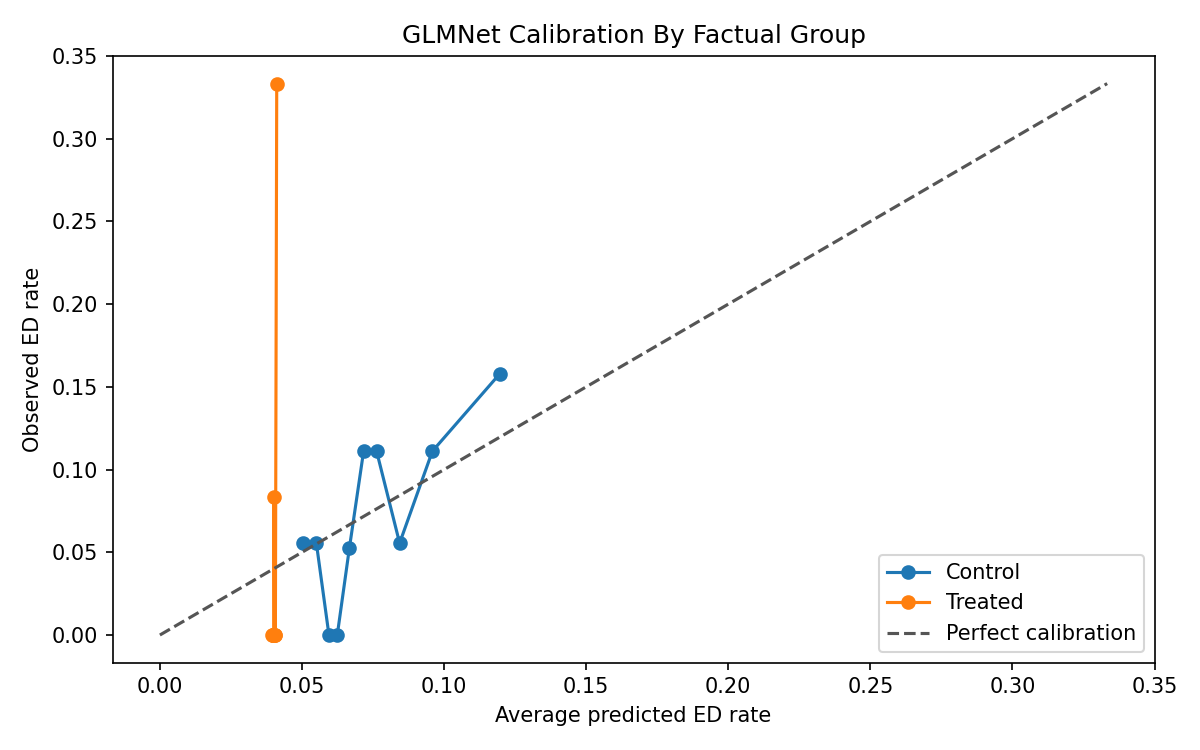
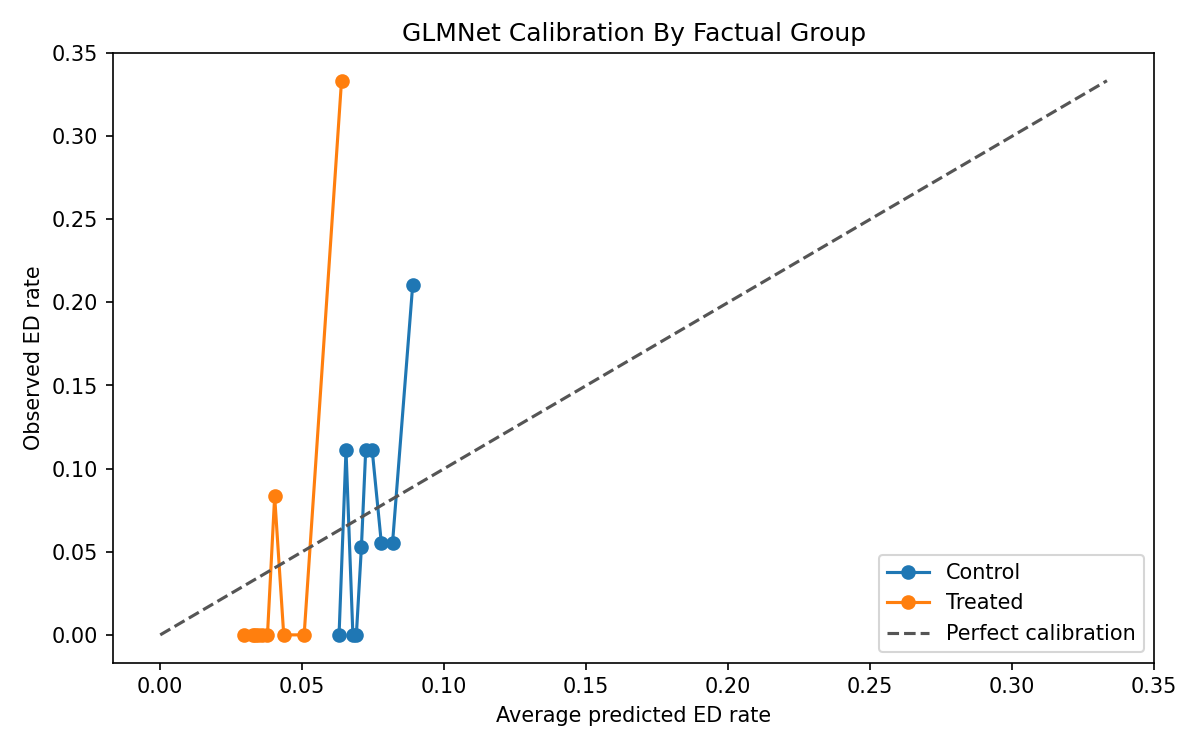
Refresh uplift report outputs

diff --git a/PRISM_Intervention_Benefit_Modeling_README.md b/PRISM_Intervention_Benefit_Modeling_README.md
@@ -182,7 +182,7 @@ Discrimination asks whether the model ranks actual ED-positive members above act
 | Model | Treated CV AUC | Control CV AUC | Treated test AUC | Control test AUC |
 | ---: | ---: | ---: | ---: | ---: |
 | XGBoost | 0.7399 | 0.6680 | 0.8354 | 0.5833 |
-| GLMNet | 0.7138 | 0.6500 | 0.9062 | 0.6582 |
+| GLMNet | 0.7195 | 0.6472 | 0.9044 | 0.6600 |
 <!-- AUTO_TABLE:model_performance_summary END -->
 
 GLMNet has the stronger held-out discrimination in this run. Its treated test AUC is meaningfully better than XGBoost's treated test AUC, and its control test AUC is also higher. XGBoost now ranks treated members well, but its control test AUC is weaker than GLMNet's control test AUC. Because both treated and control outcome models feed into the benefit score, GLMNet remains the stronger candidate for outcome-risk ranking.
@@ -196,8 +196,8 @@ AUC is useful, but it can feel abstract. The table below combines factual-group 
 | ---: | ---: | ---: | ---: | ---: | ---: | ---: | ---: | ---: | ---: |
 | XGBoost | Treated | 5 | 113 | 0.8354 | 0.1289 | 0.1165 | 0.0124 | 0.1286 | 0.1110 |
 | XGBoost | Control | 13 | 169 | 0.5833 | 0.1184 | 0.1134 | 0.0050 | 0.1119 | 0.1055 |
-| GLMNet | Treated | 5 | 113 | 0.9062 | 0.0409 | 0.0401 | 0.0008 | 0.0410 | 0.0400 |
-| GLMNet | Control | 13 | 169 | 0.6582 | 0.0864 | 0.0734 | 0.0130 | 0.0758 | 0.0689 |
+| GLMNet | Treated | 5 | 113 | 0.9044 | 0.0574 | 0.0395 | 0.0179 | 0.0606 | 0.0363 |
+| GLMNet | Control | 13 | 169 | 0.6600 | 0.0774 | 0.0729 | 0.0045 | 0.0742 | 0.0713 |
 <!-- AUTO_TABLE:factual_prediction_separation END -->
 
 This table is one of the most important diagnostics for the project. The AUC column measures whether the model ranks actual ED-positive members above ED-negative members. The average and median prediction columns show whether ED-positive members receive higher predicted probabilities in magnitude. A useful risk model should show both stronger ranking and higher predicted risk among actual ED-positive members.
@@ -220,7 +220,7 @@ Calibration error = sum((n_bin / n_total) * abs(observed_ED_rate_bin - average_p
 | Model | Treated Brier | Control Brier | Treated calibration error | Control calibration error |
 | ---: | ---: | ---: | ---: | ---: |
 | XGBoost | 0.0452 | 0.0681 | 0.0803 | 0.0644 |
-| GLMNet | 0.0405 | 0.0651 | 0.0660 | 0.0298 |
+| GLMNet | 0.0392 | 0.0658 | 0.0615 | 0.0511 |
 <!-- AUTO_TABLE:brier_calibration_summary END -->
 
 GLMNet has lower Brier scores and lower calibration error than XGBoost in both the treated and control groups. This supports GLMNet as the stronger probability model. However, Brier score should be interpreted carefully because the ED outcome is rare. A model can receive a low Brier score by predicting low probabilities for most members. For that reason, Brier and calibration should be interpreted alongside factual AUC, positive-vs-negative prediction separation, and prediction range.
@@ -240,8 +240,8 @@ The prediction ranges below are **factual evaluation ranges**. For treated membe
 | ---: | ---: | ---: | ---: | ---: | ---: | ---: | ---: |
 | XGBoost | Treated | 0.1096 | 0.1096 | 0.1121 | 0.1170 | 0.1288 | 0.1525 |
 | XGBoost | Control | 0.0814 | 0.0895 | 0.1057 | 0.1138 | 0.1557 | 0.1854 |
-| GLMNet | Treated | 0.0394 | 0.0397 | 0.0400 | 0.0401 | 0.0408 | 0.0417 |
-| GLMNet | Control | 0.0453 | 0.0525 | 0.0698 | 0.0744 | 0.1023 | 0.2067 |
+| GLMNet | Treated | 0.0274 | 0.0318 | 0.0372 | 0.0403 | 0.0545 | 0.0858 |
+| GLMNet | Control | 0.0601 | 0.0644 | 0.0716 | 0.0732 | 0.0844 | 0.1084 |
 <!-- AUTO_TABLE:factual_prediction_ranges END -->
 
 This table helps explain probability magnitude in a rare-outcome setting. GLMNet's treated predictions are tightly compressed around 4.0%, so even small rank-order differences can produce a strong AUC while still producing very little probability spread. The GLMNet control model has a wider factual prediction range, which gives it more room to separate higher-risk and lower-risk members by probability magnitude.
@@ -280,8 +280,8 @@ Current high-benefit examples from the GLMNet T-learner scored output:
 <!-- AUTO_TABLE:top_benefit_examples START -->
 | Model | Example | Actual outcome | Treatment flag | Predicted ED if treated | Predicted ED if control | Benefit score | Uplift decile |
 | ---: | ---: | ---: | ---: | ---: | ---: | ---: | ---: |
-| GLMNet | Highest benefit | 1 | 0 | 0.0438 | 0.4700 | 0.4263 | 1 |
-| GLMNet | Second highest benefit | 1 | 1 | 0.0443 | 0.4021 | 0.3579 | 1 |
+| GLMNet | Highest benefit | 0 | 1 | 0.0301 | 0.0839 | 0.0538 | 1 |
+| GLMNet | Second highest benefit | 0 | 0 | 0.0355 | 0.0871 | 0.0516 | 1 |
 <!-- AUTO_TABLE:top_benefit_examples END -->
 
 In the highest GLMNet example, the predicted untreated ED probability is 0.4700 and the predicted treated ED probability is 0.0438, giving a predicted benefit of 0.4263. This means the model estimates a 42.63 percentage point reduction in ED probability under treatment for that member.
@@ -316,10 +316,10 @@ Because GLMNet is the stronger candidate model based on held-out AUC, Brier scor
 <!-- AUTO_TABLE:glmnet_t_vs_x_decile_summary START -->
 <table><tr>
 <td valign="top" width="50%"><strong>GLMNet T-learner deciles</strong>
-<table><thead><tr><th>Uplift decile</th><th>N</th><th>Avg T-learner benefit score</th><th>Observed ED rate</th><th>Avg predicted ED if treated</th><th>Avg predicted ED if control</th><th>Treatment pct</th></tr></thead><tbody><tr><td>1</td><td>30</td><td>0.0827</td><td>0.2333</td><td>0.0409</td><td>0.1236</td><td>0.5000</td></tr><tr><td>2</td><td>30</td><td>0.0576</td><td>0.1000</td><td>0.0406</td><td>0.0982</td><td>0.3667</td></tr><tr><td>3</td><td>30</td><td>0.0461</td><td>0.0333</td><td>0.0402</td><td>0.0863</td><td>0.5000</td></tr><tr><td>4</td><td>30</td><td>0.0382</td><td>0.0667</td><td>0.0401</td><td>0.0784</td><td>0.4000</td></tr><tr><td>5</td><td>30</td><td>0.0322</td><td>0.0667</td><td>0.0400</td><td>0.0722</td><td>0.2667</td></tr><tr><td>6</td><td>30</td><td>0.0281</td><td>0.0333</td><td>0.0400</td><td>0.0681</td><td>0.5333</td></tr><tr><td>7</td><td>30</td><td>0.0240</td><td>0.0000</td><td>0.0399</td><td>0.0639</td><td>0.4000</td></tr><tr><td>8</td><td>30</td><td>0.0205</td><td>0.0000</td><td>0.0398</td><td>0.0603</td><td>0.3000</td></tr><tr><td>9</td><td>30</td><td>0.0166</td><td>0.0000</td><td>0.0397</td><td>0.0563</td><td>0.4333</td></tr><tr><td>10</td><td>30</td><td>0.0116</td><td>0.0667</td><td>0.0396</td><td>0.0512</td><td>0.2333</td></tr></tbody></table>
+<table><thead><tr><th>Uplift decile</th><th>N</th><th>Avg T-learner benefit score</th><th>Observed ED rate</th><th>Avg predicted ED if treated</th><th>Avg predicted ED if control</th><th>Treatment pct</th></tr></thead><tbody><tr><td>1</td><td>30</td><td>0.0440</td><td>0.0667</td><td>0.0357</td><td>0.0797</td><td>0.3667</td></tr><tr><td>2</td><td>30</td><td>0.0403</td><td>0.0000</td><td>0.0345</td><td>0.0748</td><td>0.4333</td></tr><tr><td>3</td><td>30</td><td>0.0382</td><td>0.0000</td><td>0.0336</td><td>0.0717</td><td>0.3667</td></tr><tr><td>4</td><td>30</td><td>0.0365</td><td>0.0333</td><td>0.0333</td><td>0.0698</td><td>0.3667</td></tr><tr><td>5</td><td>30</td><td>0.0354</td><td>0.0667</td><td>0.0367</td><td>0.0721</td><td>0.4000</td></tr><tr><td>6</td><td>30</td><td>0.0342</td><td>0.0333</td><td>0.0376</td><td>0.0719</td><td>0.3333</td></tr><tr><td>7</td><td>30</td><td>0.0329</td><td>0.0667</td><td>0.0378</td><td>0.0707</td><td>0.5667</td></tr><tr><td>8</td><td>30</td><td>0.0312</td><td>0.1333</td><td>0.0411</td><td>0.0723</td><td>0.4000</td></tr><tr><td>9</td><td>30</td><td>0.0287</td><td>0.0000</td><td>0.0442</td><td>0.0729</td><td>0.3333</td></tr><tr><td>10</td><td>30</td><td>0.0230</td><td>0.2000</td><td>0.0584</td><td>0.0815</td><td>0.3667</td></tr></tbody></table>
 </td>
 <td valign="top" width="50%"><strong>GLMNet X-learner deciles</strong>
-<table><thead><tr><th>Uplift decile</th><th>N</th><th>Avg X-learner benefit score</th><th>Observed ED rate</th><th>Avg outcome-model ED if treated</th><th>Avg outcome-model ED if control</th><th>Treatment pct</th></tr></thead><tbody><tr><td>1</td><td>30</td><td>0.0838</td><td>0.2000</td><td>0.0410</td><td>0.1181</td><td>0.5333</td></tr><tr><td>2</td><td>30</td><td>0.0552</td><td>0.0667</td><td>0.0404</td><td>0.0951</td><td>0.3667</td></tr><tr><td>3</td><td>30</td><td>0.0460</td><td>0.0333</td><td>0.0400</td><td>0.0763</td><td>0.2667</td></tr><tr><td>4</td><td>30</td><td>0.0410</td><td>0.0667</td><td>0.0401</td><td>0.0772</td><td>0.3000</td></tr><tr><td>5</td><td>30</td><td>0.0382</td><td>0.0667</td><td>0.0399</td><td>0.0691</td><td>0.2333</td></tr><tr><td>6</td><td>30</td><td>0.0352</td><td>0.0333</td><td>0.0399</td><td>0.0692</td><td>0.5333</td></tr><tr><td>7</td><td>30</td><td>0.0314</td><td>0.0000</td><td>0.0398</td><td>0.0646</td><td>0.4667</td></tr><tr><td>8</td><td>30</td><td>0.0278</td><td>0.1000</td><td>0.0399</td><td>0.0646</td><td>0.5000</td></tr><tr><td>9</td><td>30</td><td>0.0239</td><td>0.0333</td><td>0.0398</td><td>0.0640</td><td>0.3333</td></tr><tr><td>10</td><td>30</td><td>0.0137</td><td>0.0000</td><td>0.0399</td><td>0.0601</td><td>0.4000</td></tr></tbody></table>
+<table><thead><tr><th>Uplift decile</th><th>N</th><th>Avg X-learner benefit score</th><th>Observed ED rate</th><th>Avg outcome-model ED if treated</th><th>Avg outcome-model ED if control</th><th>Treatment pct</th></tr></thead><tbody><tr><td>1</td><td>30</td><td>0.0696</td><td>0.2000</td><td>0.0565</td><td>0.0869</td><td>0.5667</td></tr><tr><td>2</td><td>30</td><td>0.0502</td><td>0.0333</td><td>0.0419</td><td>0.0785</td><td>0.3000</td></tr><tr><td>3</td><td>30</td><td>0.0447</td><td>0.0667</td><td>0.0371</td><td>0.0733</td><td>0.3000</td></tr><tr><td>4</td><td>30</td><td>0.0411</td><td>0.0000</td><td>0.0354</td><td>0.0717</td><td>0.2333</td></tr><tr><td>5</td><td>30</td><td>0.0374</td><td>0.0333</td><td>0.0362</td><td>0.0726</td><td>0.4000</td></tr><tr><td>6</td><td>30</td><td>0.0348</td><td>0.0667</td><td>0.0353</td><td>0.0713</td><td>0.4667</td></tr><tr><td>7</td><td>30</td><td>0.0321</td><td>0.0667</td><td>0.0383</td><td>0.0718</td><td>0.5000</td></tr><tr><td>8</td><td>30</td><td>0.0285</td><td>0.0333</td><td>0.0364</td><td>0.0703</td><td>0.2667</td></tr><tr><td>9</td><td>30</td><td>0.0239</td><td>0.1000</td><td>0.0393</td><td>0.0723</td><td>0.4667</td></tr><tr><td>10</td><td>30</td><td>0.0150</td><td>0.0000</td><td>0.0366</td><td>0.0688</td><td>0.4333</td></tr></tbody></table>
 </td>
 </tr></table>
 
@@ -337,7 +337,7 @@ The consistency summary below is limited to GLMNet because GLMNet is the model c
 <!-- AUTO_TABLE:glmnet_xlearner_consistency_summary START -->
 | Model | Pearson benefit score corr | Spearman benefit score corr | Top decile overlap | T-learner mean benefit score | X-learner mean benefit score |
 | ---: | ---: | ---: | ---: | ---: | ---: |
-| GLMNet | 0.8062 | 0.6778 | 60.0% | 0.0358 | 0.0396 |
+| GLMNet | -0.0761 | 0.1608 | 16.7% | 0.0344 | 0.0377 |
 <!-- AUTO_TABLE:glmnet_xlearner_consistency_summary END -->
 
 Supporting files:
@@ -376,10 +376,10 @@ The current top benefit drivers by magnitude are:
 <!-- AUTO_TABLE:glmnet_benefit_magnitude START -->
 <table><tr>
 <td valign="top" width="50%"><strong>GLMNet T-learner</strong>
-<table><thead><tr><th>Feature</th><th>Mean absolute contribution</th></tr></thead><tbody><tr><td>`admits_last_6m`</td><td>0.0868</td></tr><tr><td>`ed_visits_last_6m`</td><td>0.0764</td></tr><tr><td>`percolator_clinical_score`</td><td>0.0750</td></tr><tr><td>`chf_flag`</td><td>0.0513</td></tr><tr><td>`current_risk_score`</td><td>0.0496</td></tr></tbody></table>
+<table><thead><tr><th>Feature</th><th>Mean absolute contribution</th></tr></thead><tbody><tr><td>`percolator_utilization_score`</td><td>0.0369</td></tr><tr><td>`total_cost_last_6m`</td><td>0.0349</td></tr><tr><td>`percolator_clinical_score`</td><td>0.0259</td></tr><tr><td>`behavioral_health_risk_flag`</td><td>0.0250</td></tr><tr><td>`food_insecurity_flag`</td><td>0.0226</td></tr></tbody></table>
 </td>
 <td valign="top" width="50%"><strong>GLMNet X-learner</strong>
-<table><thead><tr><th>Feature</th><th>Mean absolute contribution</th></tr></thead><tbody><tr><td>`admits_last_6m`</td><td>0.0028</td></tr><tr><td>`ed_visits_last_6m`</td><td>0.0026</td></tr><tr><td>`chf_flag`</td><td>0.0020</td></tr><tr><td>`anxiety_flag`</td><td>0.0019</td></tr><tr><td>`percolator_clinical_score`</td><td>0.0019</td></tr></tbody></table>
+<table><thead><tr><th>Feature</th><th>Mean absolute contribution</th></tr></thead><tbody><tr><td>`anxiety_flag`</td><td>0.0022</td></tr><tr><td>`program_Complex_CM`</td><td>0.0018</td></tr><tr><td>`percolator_clinical_score`</td><td>0.0016</td></tr><tr><td>`pcp_visits_last_6m`</td><td>0.0016</td></tr><tr><td>`admits_last_6m`</td><td>0.0016</td></tr></tbody></table>
 </td>
 </tr></table>
 <!-- AUTO_TABLE:glmnet_benefit_magnitude END -->
@@ -389,16 +389,16 @@ The current top benefit drivers by signed value are:
 <!-- AUTO_TABLE:glmnet_benefit_signed START -->
 <table><tr>
 <td valign="top" width="50%"><strong>GLMNet T-learner</strong>
-<table><thead><tr><th>Direction</th><th>Feature</th><th>Mean signed contribution</th></tr></thead><tbody><tr><td>Increase predicted benefit</td><td>`ed_visits_last_6m`</td><td>0.0156</td></tr><tr><td>Increase predicted benefit</td><td>`admits_last_6m`</td><td>0.0128</td></tr><tr><td>Increase predicted benefit</td><td>`current_risk_score`</td><td>0.0075</td></tr><tr><td>Increase predicted benefit</td><td>`percolator_clinical_score`</td><td>0.0048</td></tr><tr><td>Increase predicted benefit</td><td>`chf_flag`</td><td>0.0045</td></tr><tr><td>Decrease predicted benefit</td><td>`risk_tier_Very_High`</td><td>-0.0020</td></tr><tr><td>Decrease predicted benefit</td><td>`service_region_Central`</td><td>-0.0002</td></tr><tr><td>Decrease predicted benefit</td><td>`risk_tier_Medium`</td><td>-0.0001</td></tr><tr><td>Decrease predicted benefit</td><td>`service_region_West`</td><td>-0.0001</td></tr><tr><td>Decrease predicted benefit</td><td>`case_manager_name_CM_15`</td><td>-0.0001</td></tr></tbody></table>
+<table><thead><tr><th>Direction</th><th>Feature</th><th>Mean signed contribution</th></tr></thead><tbody><tr><td>Increase predicted benefit</td><td>`client_contract_Contract_B`</td><td>0.0022</td></tr><tr><td>Increase predicted benefit</td><td>`risk_tier_Very_High`</td><td>0.0017</td></tr><tr><td>Increase predicted benefit</td><td>`ckd_flag`</td><td>0.0016</td></tr><tr><td>Increase predicted benefit</td><td>`behavioral_health_risk_flag`</td><td>0.0015</td></tr><tr><td>Increase predicted benefit</td><td>`anxiety_flag`</td><td>0.0013</td></tr><tr><td>Decrease predicted benefit</td><td>`total_cost_last_6m`</td><td>-0.0042</td></tr><tr><td>Decrease predicted benefit</td><td>`service_region_Central`</td><td>-0.0029</td></tr><tr><td>Decrease predicted benefit</td><td>`risk_tier_High`</td><td>-0.0028</td></tr><tr><td>Decrease predicted benefit</td><td>`percolator_utilization_score`</td><td>-0.0020</td></tr><tr><td>Decrease predicted benefit</td><td>`service_region_West`</td><td>-0.0020</td></tr></tbody></table>
 </td>
 <td valign="top" width="50%"><strong>GLMNet X-learner</strong>
-<table><thead><tr><th>Direction</th><th>Feature</th><th>Mean signed contribution</th></tr></thead><tbody><tr><td>Increase predicted benefit</td><td>`ed_visits_last_6m`</td><td>0.0009</td></tr><tr><td>Increase predicted benefit</td><td>`admits_last_6m`</td><td>0.0007</td></tr><tr><td>Increase predicted benefit</td><td>`current_risk_score`</td><td>0.0006</td></tr><tr><td>Increase predicted benefit</td><td>`risk_tier_High`</td><td>0.0004</td></tr><tr><td>Increase predicted benefit</td><td>`total_cost_last_6m`</td><td>0.0004</td></tr><tr><td>Decrease predicted benefit</td><td>`opioid_flag`</td><td>-0.0004</td></tr><tr><td>Decrease predicted benefit</td><td>`pcp_visits_last_6m`</td><td>-0.0004</td></tr><tr><td>Decrease predicted benefit</td><td>`transportation_barrier_flag`</td><td>-0.0003</td></tr><tr><td>Decrease predicted benefit</td><td>`specialist_visits_last_6m`</td><td>-0.0002</td></tr><tr><td>Decrease predicted benefit</td><td>`county_County_A`</td><td>-0.0002</td></tr></tbody></table>
+<table><thead><tr><th>Direction</th><th>Feature</th><th>Mean signed contribution</th></tr></thead><tbody><tr><td>Increase predicted benefit</td><td>`ed_visits_last_6m`</td><td>0.0005</td></tr><tr><td>Increase predicted benefit</td><td>`current_risk_score`</td><td>0.0004</td></tr><tr><td>Increase predicted benefit</td><td>`admits_last_6m`</td><td>0.0003</td></tr><tr><td>Increase predicted benefit</td><td>`risk_tier_High`</td><td>0.0003</td></tr><tr><td>Increase predicted benefit</td><td>`percolator_utilization_score`</td><td>0.0002</td></tr><tr><td>Decrease predicted benefit</td><td>`pcp_visits_last_6m`</td><td>-0.0004</td></tr><tr><td>Decrease predicted benefit</td><td>`opioid_flag`</td><td>-0.0003</td></tr><tr><td>Decrease predicted benefit</td><td>`transportation_barrier_flag`</td><td>-0.0002</td></tr><tr><td>Decrease predicted benefit</td><td>`case_manager_name_CM_11`</td><td>-0.0002</td></tr><tr><td>Decrease predicted benefit</td><td>`service_region_Central`</td><td>-0.0001</td></tr></tbody></table>
 </td>
 </tr></table>
 <!-- AUTO_TABLE:glmnet_benefit_signed END -->
 
 <!-- AUTO_TEXT:glmnet_benefit_driver_interpretation START -->
-For GLMNet, `admits_last_6m`, `ed_visits_last_6m`, `percolator_clinical_score`, `chf_flag`, `current_risk_score` are the largest benefit-driver features by absolute contribution-difference magnitude. By signed value, `ed_visits_last_6m`, `admits_last_6m`, `current_risk_score` have the strongest positive average contribution to predicted benefit. The strongest negative signed contributor is `risk_tier_Very_High`.
+For GLMNet, `percolator_utilization_score`, `total_cost_last_6m`, `percolator_clinical_score`, `behavioral_health_risk_flag`, `food_insecurity_flag` are the largest benefit-driver features by absolute contribution-difference magnitude. By signed value, `client_contract_Contract_B`, `risk_tier_Very_High`, `ckd_flag` have the strongest positive average contribution to predicted benefit. The strongest negative signed contributor is `total_cost_last_6m`.
 <!-- AUTO_TEXT:glmnet_benefit_driver_interpretation END -->
 
 The absolute benefit-driver value measures how strongly a feature changes predicted benefit, regardless of direction. The signed benefit contribution shows whether the feature tends to increase or decrease predicted benefit, and the percent-positive column shows the share of members where the feature increased predicted benefit. Therefore, the benefit-driver tables are interpreted using both magnitude and direction.
@@ -440,12 +440,12 @@ The current cost assumptions are $1,200 per ED visit and $250 per intervention.
 <!-- AUTO_TABLE:roi_summary START -->
 | Targeting approach | Top decile n | Avg predicted benefit | Estimated ED visits avoided | Gross savings | Intervention cost | Net savings | ROI |
 | --- | --- | --- | --- | --- | --- | --- | --- |
-| GLMNet uplift score | 30 | 0.0827 | 2.4807 | $2,976.87 | $7,500.00 | -$4,523.13 | -0.6031 |
-| Current risk score | 30 | 0.0749 | 2.2456 | $2,694.72 | $7,500.00 | -$4,805.28 | -0.6407 |
+| GLMNet uplift score | 30 | 0.0440 | 1.3207 | $1,584.79 | $7,500.00 | -$5,915.21 | -0.7887 |
+| Current risk score | 30 | 0.0272 | 0.8161 | $979.31 | $7,500.00 | -$6,520.69 | -0.8694 |
 <!-- AUTO_TABLE:roi_summary END -->
 
 <!-- AUTO_TEXT:roi_interpretation START -->
-GLMNet uplift targeting estimates 2.4807 avoided ED visits in the top benefit decile. Targeting the top decile by current risk score instead estimates 2.2456 avoided ED visits. Under the current assumptions, the estimated gross savings do not exceed intervention costs in either approach, so ROI remains negative. However, uplift-based targeting produces a less negative ROI than current-risk targeting because it selects members with higher average predicted intervention benefit (-0.6031 versus -0.6407).
+GLMNet uplift targeting estimates 1.3207 avoided ED visits in the top benefit decile. Targeting the top decile by current risk score instead estimates 0.8161 avoided ED visits. Under the current assumptions, the estimated gross savings do not exceed intervention costs in either approach, so ROI remains negative. However, uplift-based targeting produces a less negative ROI than current-risk targeting because it selects members with higher average predicted intervention benefit (-0.7887 versus -0.8694).
 <!-- AUTO_TEXT:roi_interpretation END -->
 
 The current-risk comparison uses the same held-out test population and the same cost assumptions. Members are selected by highest `current_risk_score`, and expected avoided ED visits are then calculated using the GLMNet predicted benefit scores for those selected members. This makes the comparison a targeting-policy comparison: prioritize by estimated intervention benefit versus prioritize by baseline risk.
